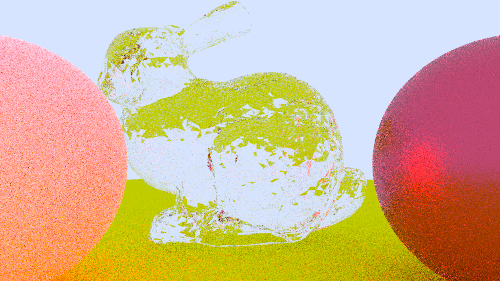
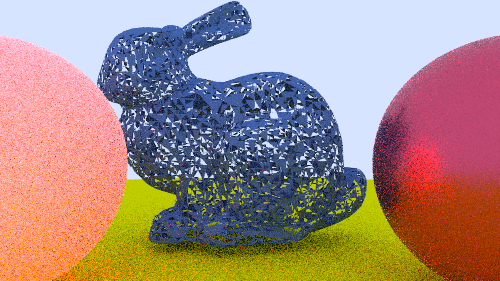
prepare meshes for use with bvh (doesnt work rn)

diff --git a/src/hittable/mesh.rs b/src/hittable/mesh.rs
@@ -6,152 +6,103 @@ use crate::bsdf::{BxDFMaterial, MatPtr};
 use crate::hittable::{HitInfo, Hittable, AABB};
 use crate::{interval::Interval, ray::Ray, vec3::Vec3};
 
-pub struct TriangleMesh {
-    vertices: Vec<Vec3>,
-    normals: Vec<Vec3>,
-    uvs: Vec<[f64; 2]>,
-    indices: Vec<[usize; 3]>, // Triangle indices
+use super::HittableList;
+
+// i'm pretty sure this approach is bad for cache locality but i cant be bothered to implement
+// a flat array like what TOBJ is doing (and make it work with my BVH)
+pub struct Triangle {
+    vertices: [Vec3; 3],
+    normals: Option<[Vec3; 3]>,
+    uvs: Option<[(f64, f64); 3]>,
     material: MatPtr,
     bbox: AABB,
 }
 
-impl TriangleMesh {
-    pub fn from_obj(path: &str, material: Arc<dyn BxDFMaterial>) -> Result<Self, LoadError> {
-        let obj = tobj::load_obj(path, &tobj::OFFLINE_RENDERING_LOAD_OPTIONS)?;
-        let (models, _) = obj;
-        let mesh = &models[0].mesh;
-
-        // Convert vertices
-        let vertices: Vec<Vec3> = mesh
-            .positions
-            .chunks(3)
-            .map(|v| Vec3::new(v[0] as f64, v[1] as f64, v[2] as f64) * 10.0)
-            .collect();
-
-        let min_vertex = vertices.iter().fold(Vec3::INFINITY, |a, b| a.min(*b));
-        let max_vertex = vertices.iter().fold(Vec3::NEG_INFINITY, |a, b| a.max(*b));
-
-        // Convert normals
-        let normals = mesh
-            .normals
-            .chunks(3)
-            .map(|n| Vec3::new(n[0] as f64, n[1] as f64, n[2] as f64))
-            .collect();
-
-        // Convert UVs
-        let uvs = mesh
-            .texcoords
-            .chunks(2)
-            .map(|uv| [uv[0] as f64, uv[1] as f64])
-            .collect();
-
-        // Convert indices to triangles
-        let indices = mesh
-            .indices
-            .chunks(3)
-            .map(|idx| [idx[0] as usize, idx[1] as usize, idx[2] as usize])
-            .collect();
-
-        // Calculate bounding box
-        let bbox = AABB::new(min_vertex, max_vertex);
-
-        Ok(Self {
-            vertices,
+impl Triangle {
+    fn new(
+        v0: Vec3,
+        v1: Vec3,
+        v2: Vec3,
+        normals: Option<[Vec3; 3]>,
+        uvs: Option<[(f64, f64); 3]>,
+        material: MatPtr,
+    ) -> Self {
+        let min_v = v0.min(v1).min(v2);
+        let max_v = v0.max(v2).max(v2);
+        let bbox = AABB::new(min_v, max_v);
+        Self {
+            vertices: [v0, v1, v2],
             normals,
             uvs,
-            indices,
             material,
             bbox,
-        })
+        }
     }
 }
 
-impl Hittable for TriangleMesh {
+impl Hittable for Triangle {
     fn intersects(&self, ray: &Ray, ray_t: Interval) -> Option<HitInfo> {
-        let mut closest_hit = ray_t.max;
-        let mut hit_info = None;
+        let v0 = self.vertices[0];
+        let v1 = self.vertices[1];
+        let v2 = self.vertices[2];
 
-        // Test each triangle
-        for triangle in &self.indices {
-            let v0 = self.vertices[triangle[0]];
-            let v1 = self.vertices[triangle[1]];
-            let v2 = self.vertices[triangle[2]];
+        let edge1 = v1 - v0;
+        let edge2 = v2 - v0;
+        let h = ray.direction().cross(edge2);
+        let a = edge1.dot(h);
 
-            // Möller–Trumbore intersection algorithm
-            let edge1 = v1 - v0;
-            let edge2 = v2 - v0;
-            let h = ray.direction().cross(edge2);
-            let a = edge1.dot(h);
-
-            if a.abs() < 1e-6 {
-                continue; // Ray parallel to triangle
-            }
-
-            let f = 1.0 / a;
-            let s = ray.origin() - v0;
-            let u = f * s.dot(h);
-
-            if !(0.0..=1.0).contains(&u) {
-                continue;
-            }
-
-            let q = s.cross(edge1);
-            let v = f * ray.direction().dot(q);
-
-            if v < 0.0 || u + v > 1.0 {
-                continue;
-            }
-
-            let t = f * edge2.dot(q);
-            if t < ray_t.min || t > closest_hit {
-                continue;
-            }
-
-            // We have a hit - compute normal and UV
-            let w = 1.0 - u - v;
-            let normal = if !self.normals.is_empty() {
-                (self.normals[triangle[0]] * w
-                    + self.normals[triangle[1]] * u
-                    + self.normals[triangle[2]] * v)
-                    .normalize()
-            } else {
-                edge1.cross(edge2).normalize()
-            };
-
-            let uv = if !self.uvs.is_empty() {
-                let uv0 = self.uvs[triangle[0]];
-                let uv1 = self.uvs[triangle[1]];
-                let uv2 = self.uvs[triangle[2]];
-                [
-                    uv0[0] * w + uv1[0] * u + uv2[0] * v,
-                    uv0[1] * w + uv1[1] * u + uv2[1] * v,
-                ]
-            } else {
-                [u, v]
-            };
-
-            closest_hit = t;
-            hit_info = Some(HitInfo::new(
-                ray,
-                ray.at(t),
-                normal,
-                t,
-                self.material.clone(),
-                uv[0],
-                uv[1],
-            ));
-            // hit_info = Some(HitInfo::new(
-            //     ray.at(t),
-            //     normal,
-            //     t,
-            //     uv[0],
-            //     uv[1],
-            //     ray.direction().dot(normal) < 0.0,
-            //     self.material.as_ref(),
-            // ));
+        if a.abs() < 1e-8 {
+            return None; // Ray parallel to triangle
         }
 
-        hit_info
+        let f = 1.0 / a;
+        let s = ray.origin() - v0;
+        let u = f * s.dot(h);
+
+        if !(0.0..=1.0).contains(&u) {
+            return None;
+        }
+
+        let q = s.cross(edge1);
+        let v = f * ray.direction().dot(q);
+
+        if v < 0.0 || u + v > 1.0 {
+            return None;
+        }
+
+        let t = f * edge2.dot(q);
+        if !ray_t.contains(t) {
+            return None;
+        }
+
+        let w = 1.0 - u - v;
+        let normal = if let Some(normals) = self.normals {
+            (normals[0] * w + normals[1] * u + normals[2] * v).normalize()
+        } else {
+            edge1.cross(edge2).normalize()
+        };
+
+        let (u, v) = if let Some(uvs) = self.uvs {
+            let uv0 = uvs[0];
+            let uv1 = uvs[1];
+            let uv2 = uvs[2];
+            (
+                uv0.0 * w + uv1.0 * u + uv2.0 * v,
+                uv0.1 * w + uv1.1 * u + uv2.1 * v,
+            )
+        } else {
+            (u, v)
+        };
+
+        Some(HitInfo::new(
+            ray,
+            ray.at(t),
+            normal,
+            t,
+            self.material.clone(),
+            u,
+            v,
+        ))
     }
 
     fn bounding_box(&self) -> AABB {
@@ -160,5 +111,79 @@ impl Hittable for TriangleMesh {
 
     fn material(&self) -> Option<&dyn BxDFMaterial> {
         Some(self.material.as_ref())
+    }
+}
+
+pub struct TriangleMesh {
+    triangles: HittableList,
+}
+
+impl TriangleMesh {
+    pub fn from_obj(path: &str, material: Arc<dyn BxDFMaterial>) -> Result<Self, LoadError> {
+        let obj = tobj::load_obj(path, &tobj::OFFLINE_RENDERING_LOAD_OPTIONS)?;
+        let (models, _) = obj;
+        let mesh = &models[0].mesh;
+
+        // get vertices
+        let vertices: Vec<Vec3> = mesh
+            .positions
+            .chunks(3)
+            .map(|v| Vec3::new(v[0] as f64, v[1] as f64, v[2] as f64) * 10.0)
+            .collect();
+
+        // get normals
+        let normals: Vec<Vec3> = mesh
+            .normals
+            .chunks(3)
+            .map(|n| Vec3::new(n[0] as f64, n[1] as f64, n[2] as f64))
+            .collect();
+
+        // get UVs
+        let uvs: Vec<(f64, f64)> = mesh
+            .texcoords
+            .chunks(2)
+            .map(|uv| (uv[0] as f64, uv[1] as f64))
+            .collect();
+
+        // let mut triangles: Vec<Triangle> = Vec::new();
+        let mut triangles = HittableList::new();
+        for chunk in mesh.indices.chunks(3) {
+            let [i0, i1, i2] = [chunk[0] as usize, chunk[1] as usize, chunk[2] as usize];
+            let normals = if normals.is_empty() {
+                None
+            } else {
+                Some([normals[i0], normals[i1], normals[i2]])
+            };
+            let uvs = if uvs.is_empty() {
+                None
+            } else {
+                Some([uvs[i0], uvs[i1], uvs[i2]])
+            };
+            triangles.add(Triangle::new(
+                vertices[i0],
+                vertices[i1],
+                vertices[i2],
+                normals,
+                uvs,
+                material.clone(),
+            ));
+        }
+
+        triangles.build_bvh();
+        Ok(Self { triangles })
+    }
+}
+
+impl Hittable for TriangleMesh {
+    fn intersects(&self, ray: &Ray, ray_t: Interval) -> Option<HitInfo> {
+        self.triangles.intersects(ray, ray_t)
+    }
+
+    fn bounding_box(&self) -> AABB {
+        self.triangles.bounding_box()
+    }
+
+    fn material(&self) -> Option<&dyn BxDFMaterial> {
+        None
     }
 }

diff --git a/src/main.rs b/src/main.rs
@@ -467,8 +467,8 @@ fn bunny_scene() {
     let mut world = World::new();
     let material_ground = Arc::new(DiffuseBRDF::from_rgb(Vec3::new(0.8, 0.8, 0.0)));
     let material_center = Arc::new(DiffuseBRDF::from_rgb(Vec3::new(0.1, 0.2, 0.5)));
-    let material_center = Arc::new(MetalBRDF::from_rgb(Vec3::ONE, 0.1));
-    let material_center = Arc::new(GlassBSDF::basic(1.5));
+    // let material_center = Arc::new(MetalBRDF::from_rgb(Vec3::ONE, 0.1));
+    // let material_center = Arc::new(GlassBSDF::basic(1.5));
     let color_tex = Arc::new(SolidTexture::new(Vec3::new(0.8, 0.2, 0.2)));
 
     let material_left = Arc::new(PrincipledBSDF::new(
@@ -509,7 +509,7 @@ fn bunny_scene() {
         material_right,
     ));
 
-    world.build_bvh();
+    // world.build_bvh();
 
     let mut camera = Camera::new();
     camera.aspect_ratio = 16.0 / 9.0;
@@ -532,7 +532,7 @@ fn bunny_scene() {
     camera.render(&world, "demo/bunny.png");
 }
 fn main() {
-    env::set_var("RUST_BACKTRACE", "1");
+    env::set_var("RUST_BACKTRACE", "full");
 
     let x = 7;
     match x {

diff --git a/src/hittable/aabb.rs b/src/hittable/aabb.rs
@@ -37,10 +37,7 @@ impl AABB {
     }
 
     pub fn union(self, other: AABB) -> AABB {
-        AABB {
-            min: self.min.min(other.min),
-            max: self.max.max(other.max),
-        }
+        AABB::new(self.min.min(other.min), self.max.max(other.max))
     }
 
     pub fn centroid(&self) -> Vec3 {
@@ -104,15 +101,13 @@ impl AABB {
             new_min = new_min.min(corner);
             new_max = new_max.max(corner);
         }
-        AABB {
-            min: new_min,
-            max: new_max,
-        }
+
+        AABB::new(new_min, new_max)
     }
 }
 
 impl Default for AABB {
-    fn default() -> Self {
+    fn default() -> AABB {
         Self {
             min: Vec3::ZERO,
             max: Vec3::ZERO,
@@ -124,9 +119,6 @@ impl Add<Vec3> for AABB {
     type Output = AABB;
 
     fn add(self, rhs: Vec3) -> Self::Output {
-        AABB {
-            min: self.min + rhs,
-            max: self.max + rhs,
-        }
+        AABB::new(self.min + rhs, self.max + rhs)
     }
 }
